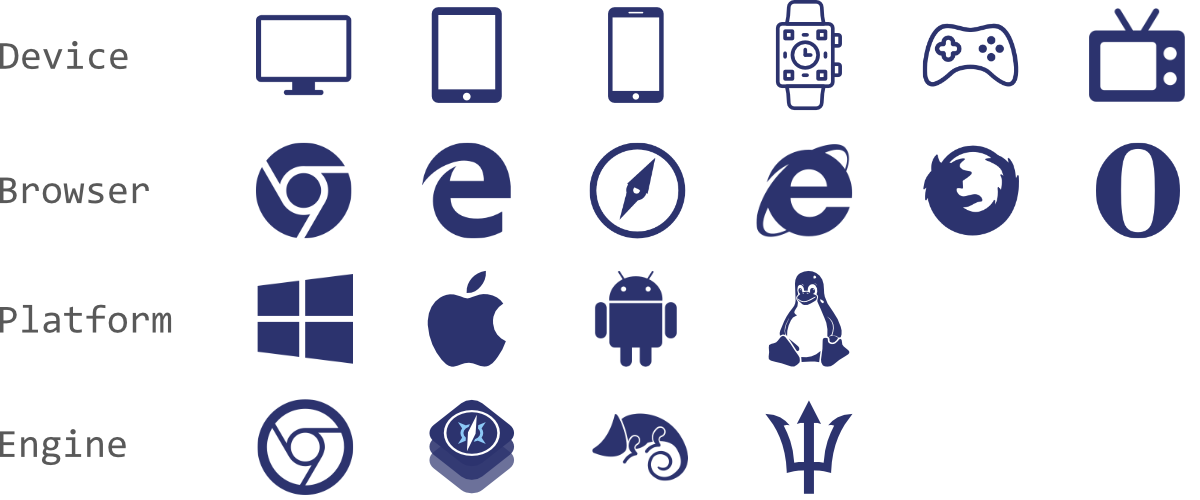
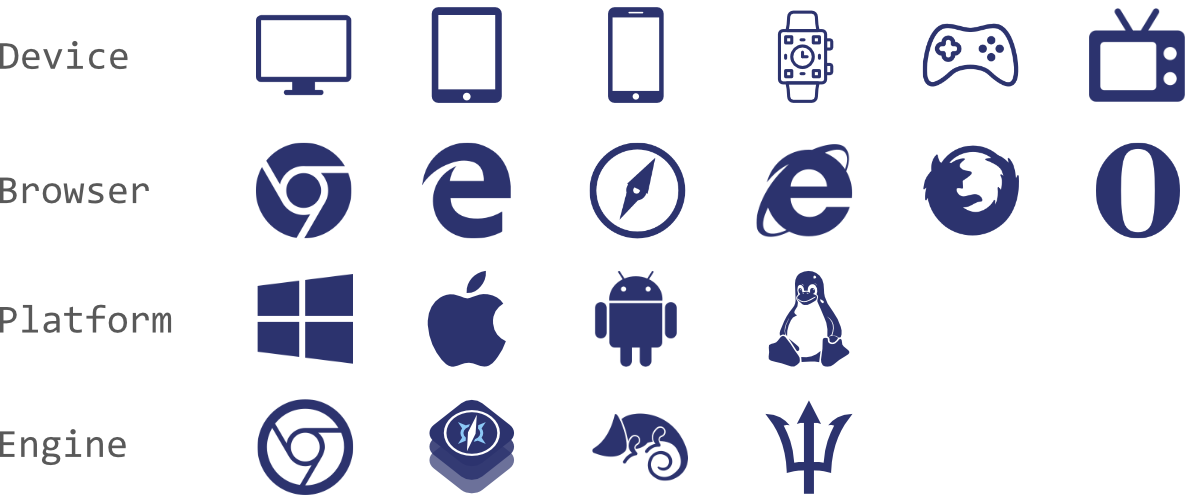
Trying out image html size width 650px

Changed region(s): [[0.6475, 0.0, 0.7092, 0.24]]

diff --git a/README.md b/README.md
@@ -2,7 +2,7 @@
 
 ASP.NET Core Detection service components for identifying details about client device, browser, engine, platform, & crawler. Responsive middleware for routing base upon request client device detection to specific view. Also in the added feature of user preference made this library even more complehensive must for developers whom to target multiple devices with view rendered and optimized directly from the server side.
 
-<img src="https://raw.githubusercontent.com/wangkanai/Detection/doc/asset/aspnet-core-detection-3.svg?sanitize=true" width="700" alt="ASP.NET Core Detection" />
+<img src="https://raw.githubusercontent.com/wangkanai/Detection/doc/asset/aspnet-core-detection-3.svg?sanitize=true" width="650" alt="ASP.NET Core Detection" />
 
 [![Build status](https://ci.appveyor.com/api/projects/status/033qv4nqv8g4altq?svg=true&retina=true)](https://ci.appveyor.com/project/wangkanai/detection)
 [![GitHub](https://img.shields.io/github/license/wangkanai/detection)](https://github.com/wangkanai/Detection/blob/dev/LICENSE)
